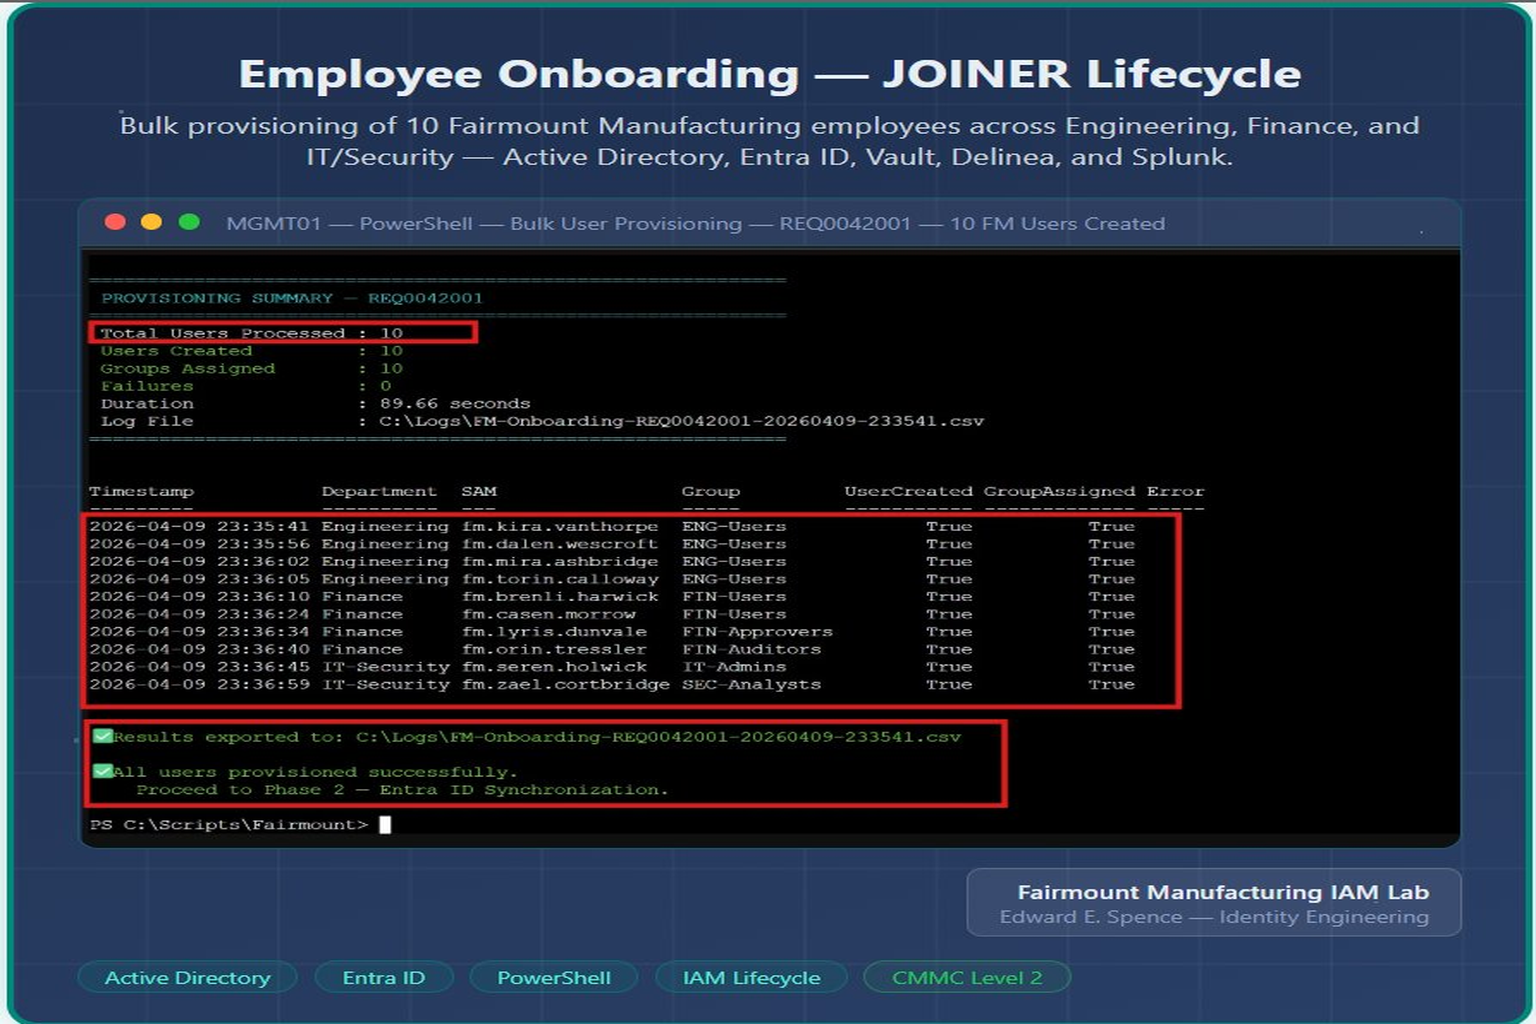
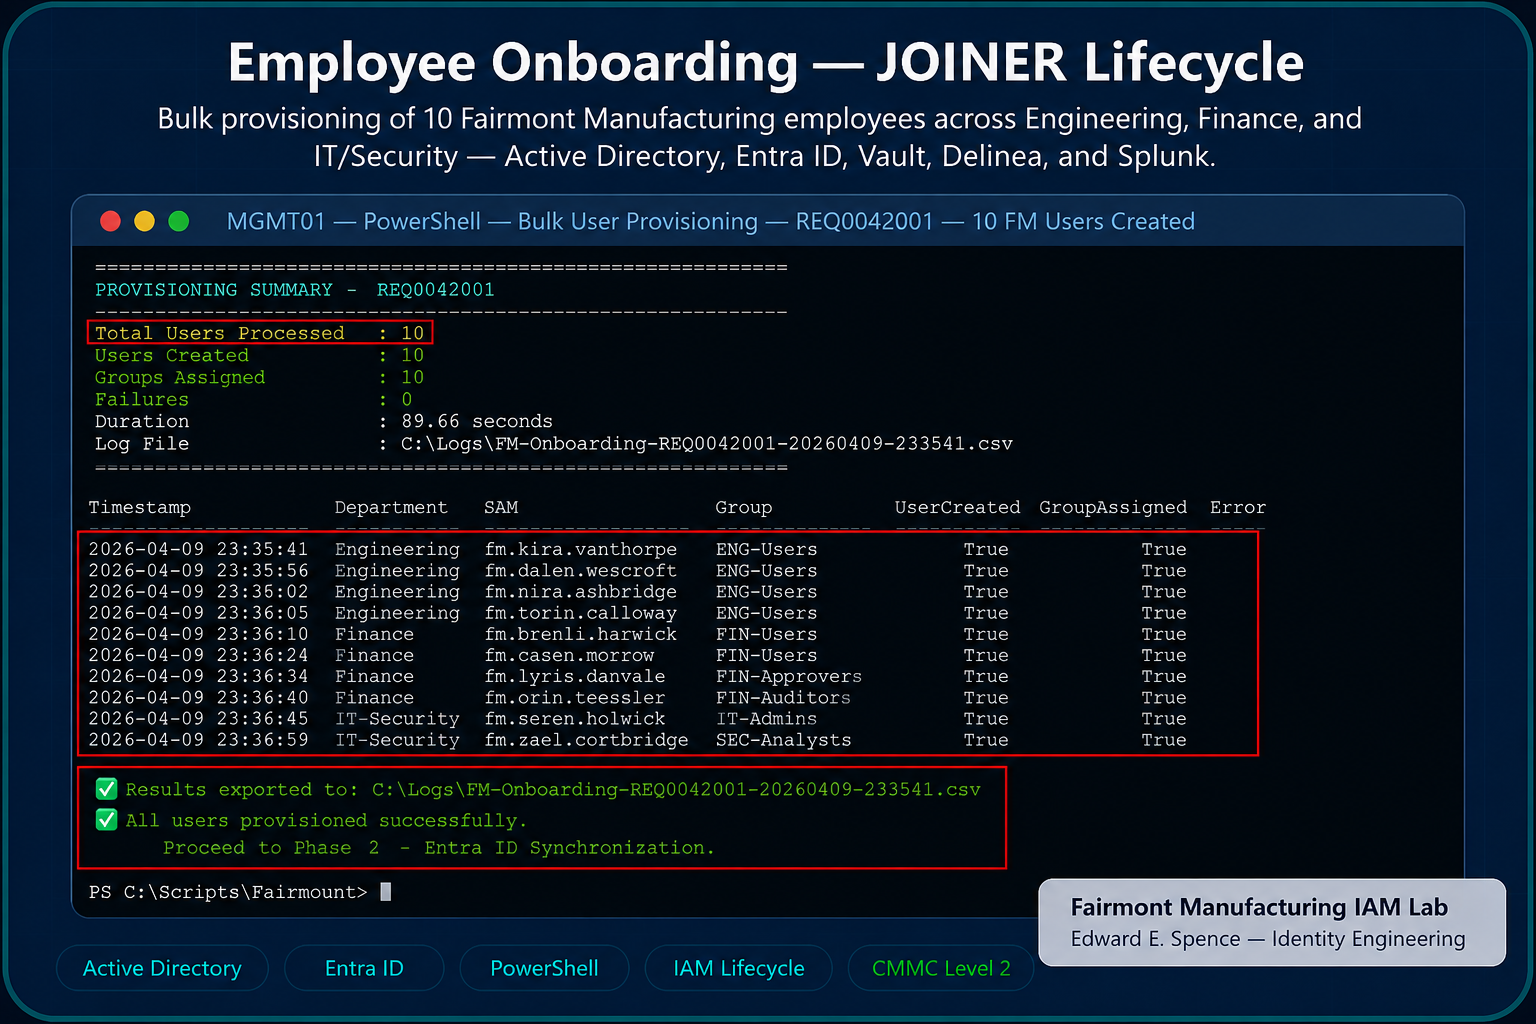
Repository branding and documentation updates

diff --git a/README.md b/README.md
@@ -1,11 +1,35 @@
-![Active Directory](https://img.shields.io/badge/Active_Directory-0078D4?style=flat&logo=microsoft&logoColor=white)
-![Microsoft Entra ID](https://img.shields.io/badge/Microsoft_Entra_ID-0078D4?style=flat&logo=microsoftazure&logoColor=white)
-![HashiCorp Vault](https://img.shields.io/badge/HashiCorp_Vault-1.16-black?style=flat&logo=vault&logoColor=white)
-![Delinea Secret Server](https://img.shields.io/badge/Delinea-Secret_Server-purple?style=flat)
-![Splunk](https://img.shields.io/badge/Splunk-000000?style=flat&logo=splunk&logoColor=white)
-![AWS](https://img.shields.io/badge/AWS-SAML_Federation-FF9900?style=flat&logo=amazonaws&logoColor=white)
-![CMMC](https://img.shields.io/badge/CMMC-Level_2-blue?style=flat)
-![PowerShell](https://img.shields.io/badge/PowerShell-Automation-5391FE?style=flat&logo=powershell&logoColor=white)
+<p align="center">
+  <img src="https://raw.githubusercontent.com/eespence/HYBRID-IDENTITY-ACCESS-MGMT/main/branding/FM-Horizontal-Cropped.png" width="650">
+</p>
+
+<h1 align="center">Identity Operations & Governance Lab</h1>
+
+<p align="center">
+  <strong>Enterprise IAM Operations | IAMPAM.LAB</strong>
+</p>
+
+<p align="center">
+  <em>Fairmont Manufacturing — Precision. Security. Mission Success.</em>
+</p>
+
+<p align="center">
+  <img src="https://img.shields.io/badge/Active_Directory-0078D4?style=flat&logo=microsoft&logoColor=white">
+  <img src="https://img.shields.io/badge/Microsoft_Entra_ID-0078D4?style=flat&logo=microsoftazure&logoColor=white">
+  <img src="https://img.shields.io/badge/HashiCorp_Vault-1.16-black?style=flat&logo=vault&logoColor=white">
+  <img src="https://img.shields.io/badge/Delinea-Secret_Server-purple?style=flat">
+  <img src="https://img.shields.io/badge/Splunk-000000?style=flat&logo=splunk&logoColor=white">
+  <img src="https://img.shields.io/badge/AWS-SAML_Federation-FF9900?style=flat&logo=amazonaws&logoColor=white">
+  <img src="https://img.shields.io/badge/CMMC-Level_2-blue?style=flat">
+  <img src="https://img.shields.io/badge/PowerShell-Automation-5391FE?style=flat&logo=powershell&logoColor=white">
+</p>
+
+---
+
+Enterprise IAM operations repository demonstrating joiner, mover, leaver workflows, access governance, privileged access operations, incident response, audit validation, compliance evidence generation, and identity lifecycle management across the Fairmont Manufacturing environment.
+
+← [Back to IAMPAM.LAB Ecosystem](https://github.com/eespence/HYBRID-IDENTITY-ACCESS-MGMT)
+
+---
 
 # FAIRMONT-MANUFACTURING-IAM-OPERATIONS
 
